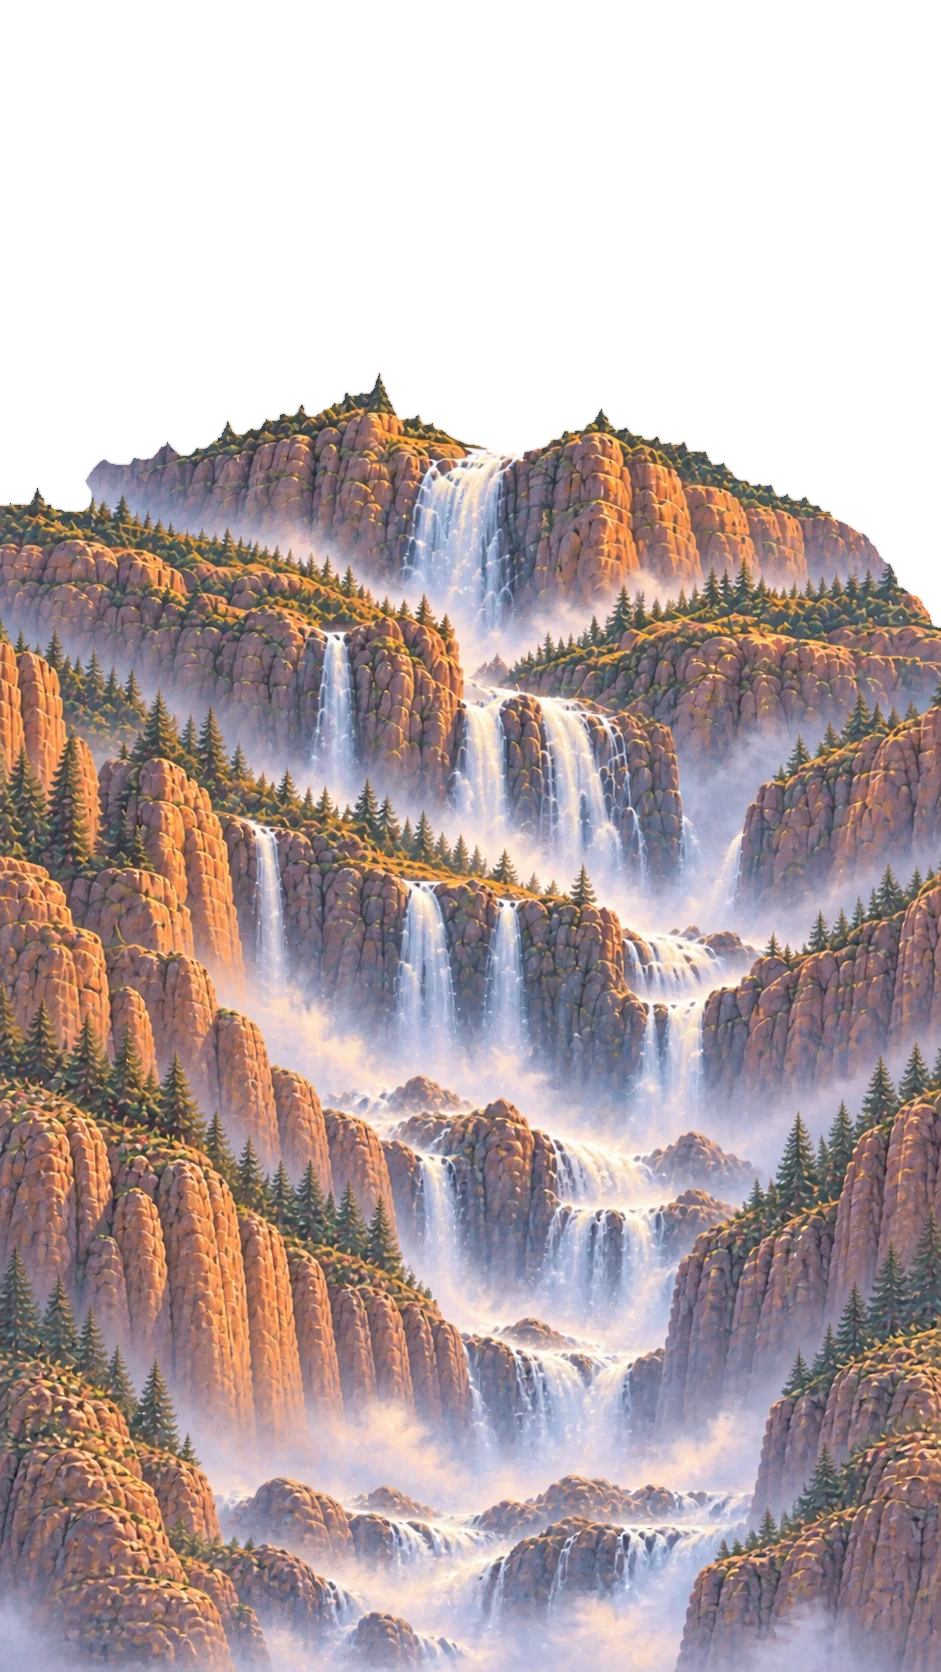
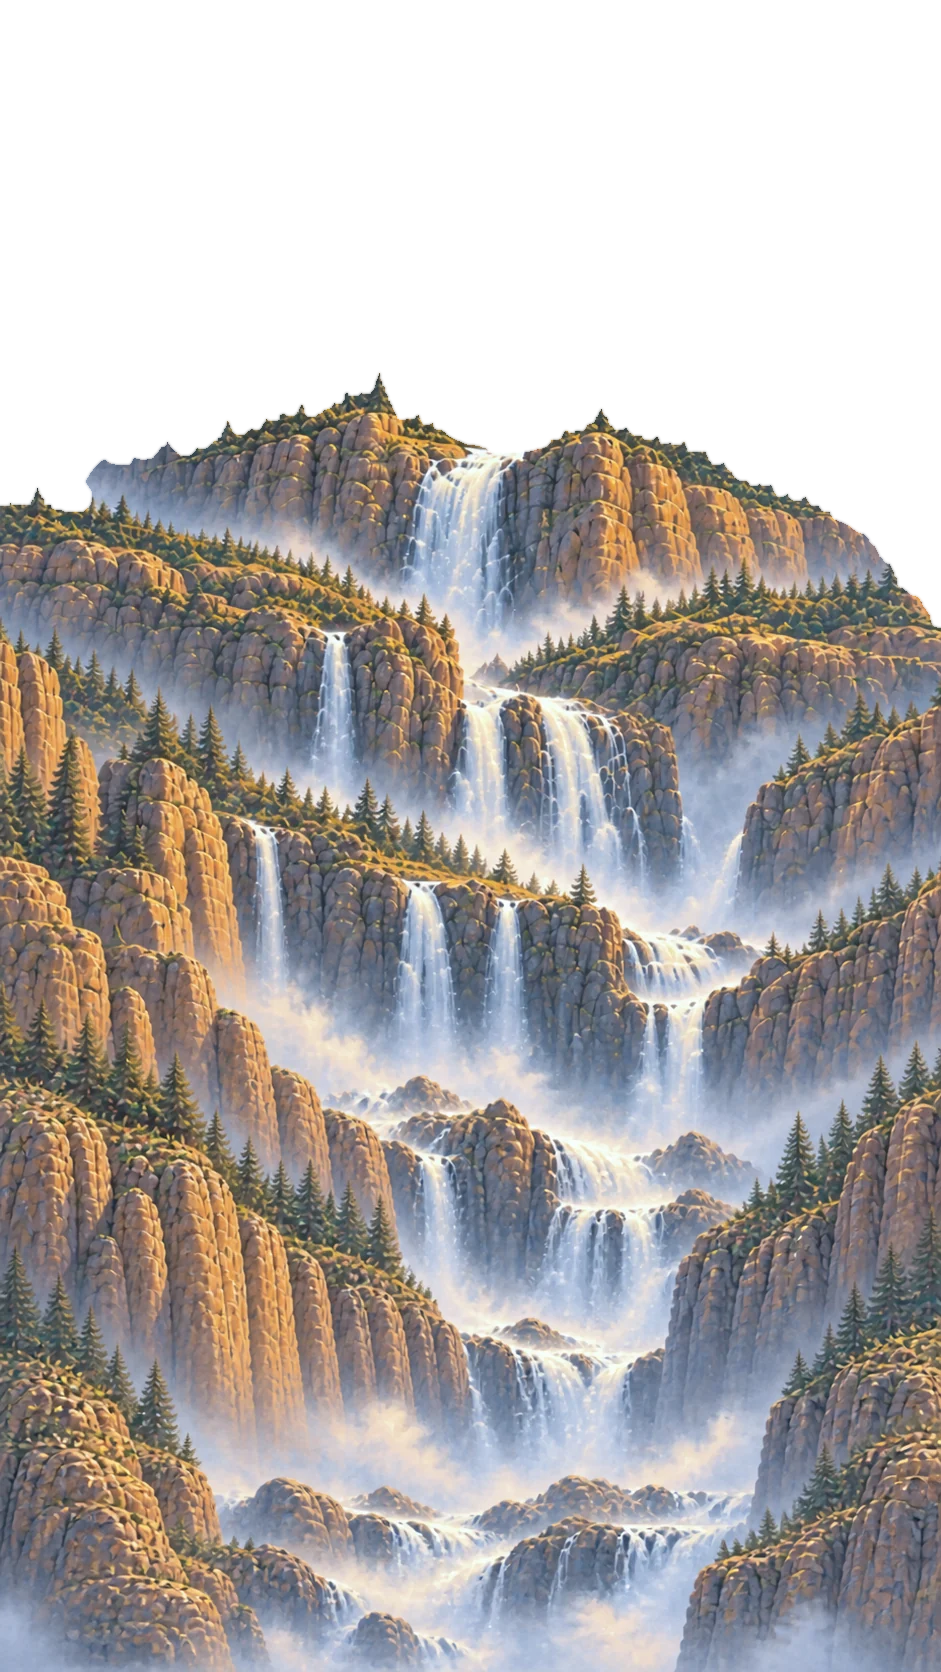
World v3: sun sets behind the castle at the bottom; palette shifted from purple/red toward green-yellow-blue, muted again
Claude-Session: https://claude.ai/code/session_01X5u2D9a4RRbbCvwnE6RQKF

diff --git a/prototype/world-v3-preview/trev-world-scroll.html b/prototype/world-v3-preview/trev-world-scroll.html
@@ -41,7 +41,7 @@ const LOGO = { aspect: 1280 / 667, ax: 0.5015, ay: 0.4418 };
 // and clearing over the first 30%, and clouds that part to the sides as you go down.
 const DESCENT_SVH = 236, SCROLL_EASE = 5, PART_RANGE = 0.9;
 const LAYERS = [
-  { key: "sky",        w: 941,   x: 0,     y: -150,  from: [0, 0],     span: [0, 1] },
+  { key: "sky",        w: 941,   x: 0,     y: -290,  from: [0, -120],  span: [0, 1] }, // sinks 120px so the sun ends up behind the castle
   { key: "mountains",  w: 941,   x: 0,     y: 5,     from: [0, 520],   span: [0, 1] },
   { key: "falls",      w: 941,   x: 0,     y: 160,   from: [0, 900],   span: [0, 1] },
   { key: "forest",     w: 941,   x: 0,     y: 45,   from: [0, 1150],  span: [0.05, 1] },

diff --git a/prototype/tools/world-v3/grade2.py b/prototype/tools/world-v3/grade2.py
@@ -26,3 +26,25 @@ def grade(bgr, base_chroma=0.86, gold_chroma=1.3, lift=7, smooth=0.5, grain=1.6)
     L=Ln*255+paper(*L.shape)*grain*(1-hi)
     lab=np.dstack([np.clip(L,0,255),np.clip(a+128,0,255),np.clip(b+128,0,255)]).astype(np.uint8)
     return cv2.cvtColor(lab,cv2.COLOR_LAB2BGR)
+
+def grade3(bgr, base_chroma=0.78, gold_chroma=1.06, lift=5, smooth=0.5, grain=1.8):
+    # muted, painterly, shifted away from purple/red toward green-yellow-blue (Burnell's palette)
+    img=grade(bgr, base_chroma=1.0, gold_chroma=1.0, lift=lift, smooth=smooth, grain=grain)
+    hsv=cv2.cvtColor(img,cv2.COLOR_BGR2HSV).astype(np.float32)
+    H,S,V=hsv[...,0],hsv[...,1]/255,hsv[...,2]/255
+    gold=smoothstep(13,18,H)*(1-smoothstep(30,36,H))*smoothstep(0.25,0.5,S)*smoothstep(0.45,0.75,V)
+    hi=smoothstep(0.82,0.97,V)
+    lab=cv2.cvtColor(img,cv2.COLOR_BGR2LAB).astype(np.float32)
+    L,a,b=lab[...,0],lab[...,1]-128,lab[...,2]-128
+    # pull magenta/red out: positive a shrinks and slides a touch toward green
+    a=np.where(a>0,a*0.72,a)-2.5
+    # purples (red + blue) lean blue
+    purple=smoothstep(0,10,lab[...,1]-128)*smoothstep(0,10,-(lab[...,2]-128))
+    a=a*(1-0.5*purple); b=b-3*purple
+    # greens and yellows a little richer than the rest
+    green=smoothstep(2,10,-a)
+    ch=base_chroma+(gold_chroma-base_chroma)*np.maximum(gold,0.6*green)
+    ch=np.maximum(ch,0.95*hi)
+    a*=ch; b*=ch
+    lab=np.dstack([np.clip(L,0,255),np.clip(a+128,0,255),np.clip(b+128,0,255)]).astype(np.uint8)
+    return cv2.cvtColor(lab,cv2.COLOR_LAB2BGR)
